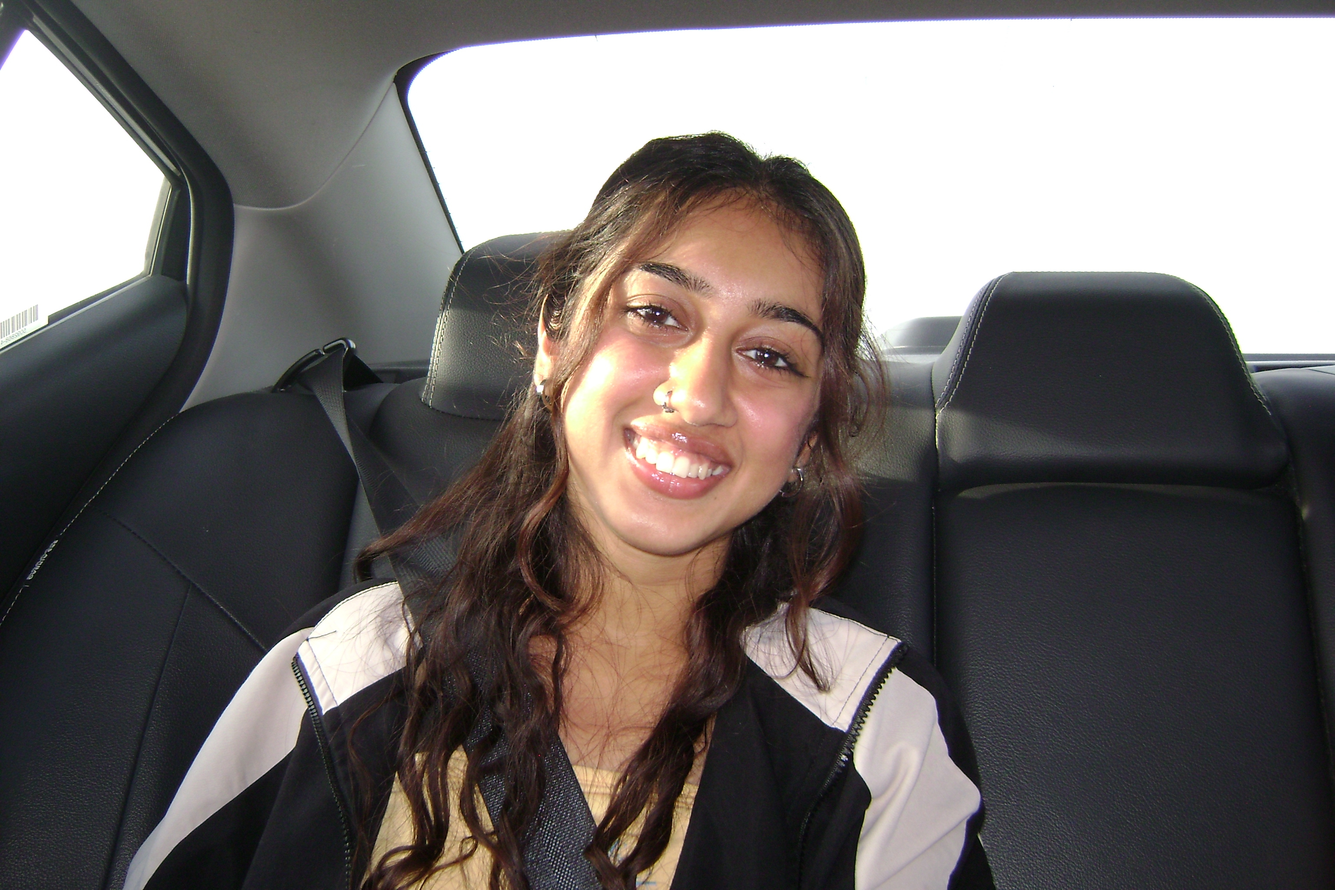
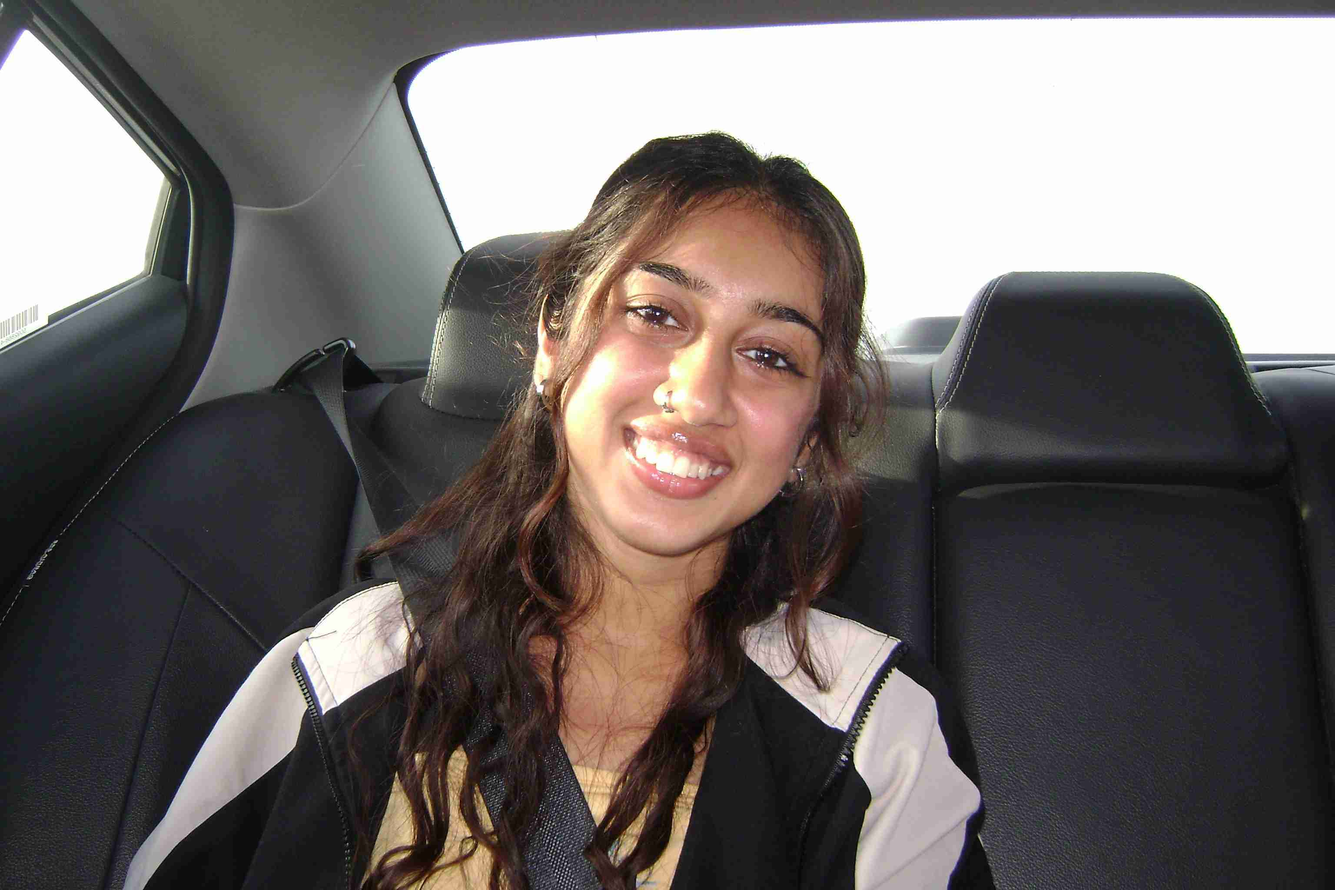
chore: compress committee images and standardize to jpg

diff --git a/src/components/seasons/2026/blocks/team/committees-data.ts b/src/components/seasons/2026/blocks/team/committees-data.ts
@@ -57,7 +57,7 @@ export const COMMITTEES: Committee[] = [
     },
     members: [
       {
-        photo: "/images/seasons/2026/landing/team/directors/jay-chan.png",
+        photo: "/images/seasons/2026/landing/team/directors/jay-chan.jpg",
         name: "Jay Chan",
         role: "Director (Development)",
         year: "3rd Year",
@@ -65,7 +65,7 @@ export const COMMITTEES: Committee[] = [
         funFact: "I was born with 11 fingers!",
       },
       {
-        photo: "/images/seasons/2026/landing/team/directors/anna-kwan.png",
+        photo: "/images/seasons/2026/landing/team/directors/anna-kwan.jpg",
         name: "Anna Kwan",
         role: "Director (UI/UX)",
         year: "4th Year",
@@ -89,7 +89,7 @@ export const COMMITTEES: Committee[] = [
         funFact: "I love doing my nails!",
       },
       {
-        photo: "/images/seasons/2026/landing/team/imported/alice-ger.png",
+        photo: "/images/seasons/2026/landing/team/imported/alice-ger.jpg",
         name: "Alice Ger",
         role: "Committee (UI/UX)",
         year: "3rd Year",
@@ -164,7 +164,7 @@ export const COMMITTEES: Committee[] = [
         funFact: "I prefer tea over coffee.",
       },
       {
-        photo: "/images/seasons/2026/landing/team/directors/evie-ngo.png",
+        photo: "/images/seasons/2026/landing/team/directors/evie-ngo.jpg",
         name: "Evie Ngo",
         role: "Director",
         year: "3rd Year",
@@ -172,7 +172,7 @@ export const COMMITTEES: Committee[] = [
         funFact: "I've hosted a matcha pop-up I built by hand!",
       },
       {
-        photo: "/images/seasons/2026/landing/team/imported/heidi-tran.JPG",
+        photo: "/images/seasons/2026/landing/team/imported/heidi-tran.jpg",
         name: "Heidi Tran",
         role: "Committee",
         year: "4th Year",
@@ -228,7 +228,7 @@ export const COMMITTEES: Committee[] = [
     },
     members: [
       {
-        photo: "/images/seasons/2026/landing/team/directors/sahana-iyer.JPG",
+        photo: "/images/seasons/2026/landing/team/directors/sahana-iyer.jpg",
         name: "Sahana Iyer",
         role: "Director",
         year: "3rd Year",
@@ -245,7 +245,7 @@ export const COMMITTEES: Committee[] = [
         funFact: "I currently have a collection of around 20 perfumes!",
       },
       {
-        photo: "/images/seasons/2026/landing/team/imported/emily-ono.jpeg",
+        photo: "/images/seasons/2026/landing/team/imported/emily-ono.jpg",
         name: "Emily Ono",
         role: "Committee",
         year: "2nd Year",
@@ -411,7 +411,7 @@ export const COMMITTEES: Committee[] = [
           "I went camping, kayaking and hiking at Channel Islands National Park over the summer!",
       },
       {
-        photo: "/images/seasons/2026/landing/team/imported/candice-li.png",
+        photo: "/images/seasons/2026/landing/team/imported/candice-li.jpg",
         name: "Candice Li",
         role: "Committee",
         year: "2nd Year",
@@ -479,7 +479,7 @@ export const COMMITTEES: Committee[] = [
       },
       {
         photo:
-          "/images/seasons/2026/landing/team/imported/bharathi-kaliraj.png",
+          "/images/seasons/2026/landing/team/imported/bharathi-kaliraj.jpg",
         name: "Bharathi Kaliraj",
         role: "Committee",
         year: "2nd Year",
